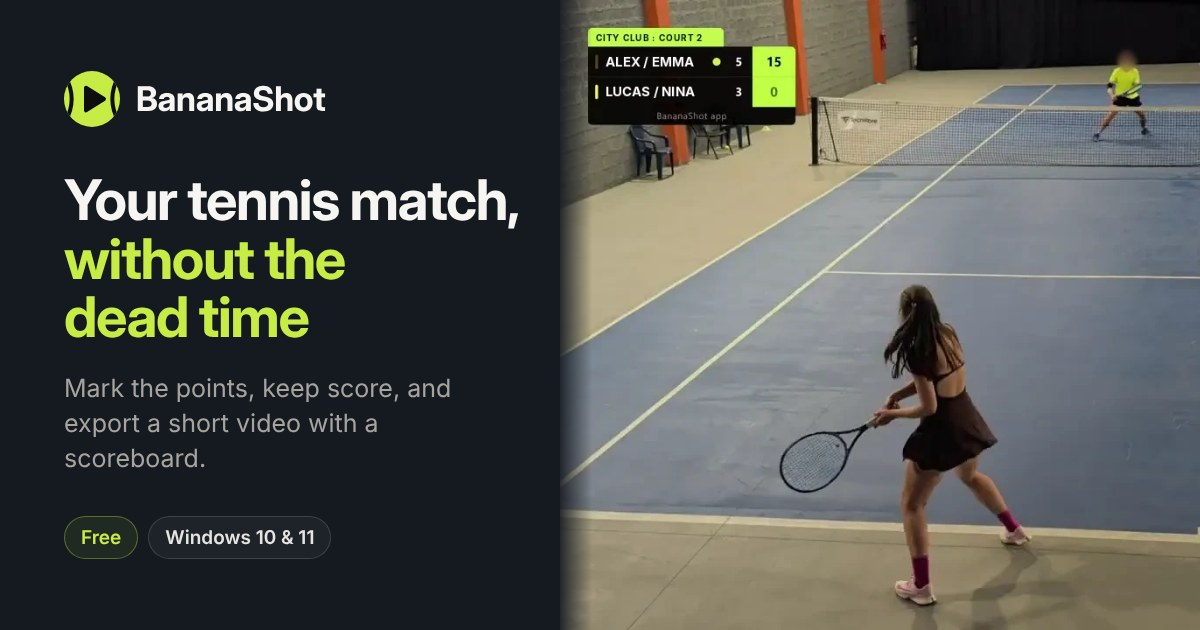
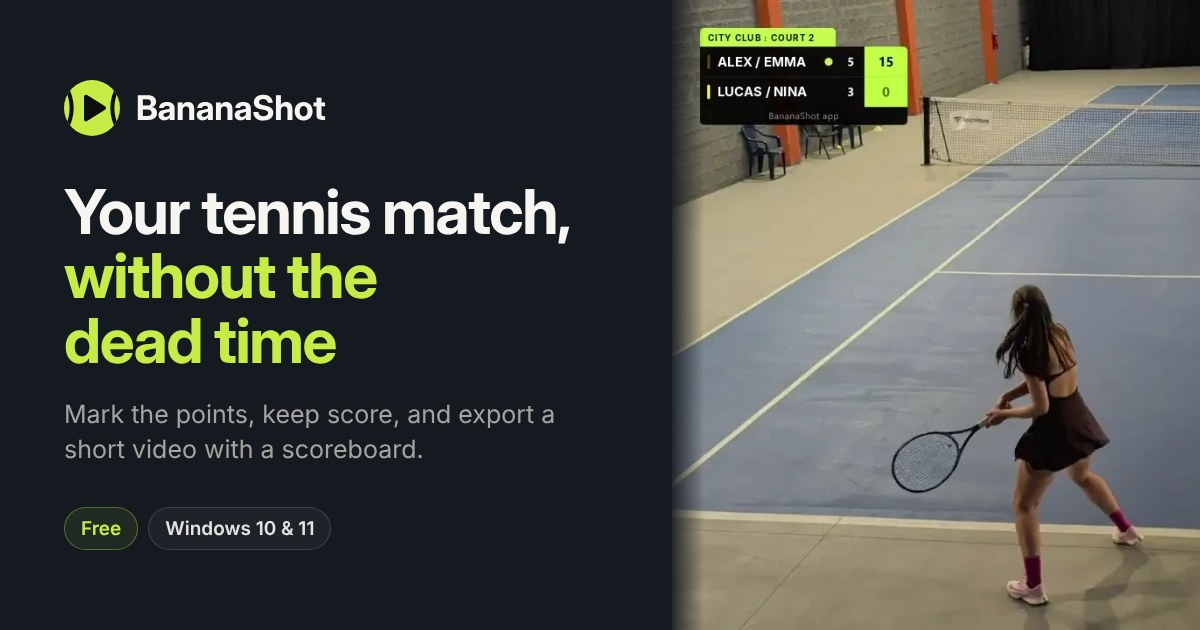
Site: crop the social preview frame instead of blurring faces
The blurred faces looked bad. The photo panel now shows only the left
part of the frame. There, the only player has her back to the camera,
so no face shows and no blur is necessary. The invented names on the
scoreboard stay.

Claude-Session: https://claude.ai/code/session_01JhfzXmLJitvfWefRHX6z1u

diff --git a/design/social-preview/og-image.html b/design/social-preview/og-image.html
@@ -5,18 +5,18 @@
   * { margin: 0; padding: 0; box-sizing: border-box; }
   html, body { width: 1200px; height: 630px; overflow: hidden; background: #151a21; }
   body { font-family: "Inter", sans-serif; color: #e6e4e0; position: relative; }
-  .frame { position: absolute; top: 0; left: 560px; width: 1120px; height: 630px; display: block; }
-  .fade { position: absolute; top: 0; left: 556px; width: 36px; height: 630px;
+  .frame { position: absolute; top: 0; left: 672px; width: 1120px; height: 630px; display: block; }
+  .fade { position: absolute; top: 0; left: 668px; width: 36px; height: 630px;
     background: linear-gradient(90deg, #151a21 0%, rgba(21,26,33,0) 100%); }
-  .text { position: absolute; left: 64px; top: 0; bottom: 0; width: 480px;
+  .text { position: absolute; left: 64px; top: 0; bottom: 0; width: 580px;
     display: flex; flex-direction: column; justify-content: center; }
   .brand { display: flex; align-items: center; gap: 16px; margin-bottom: 44px; }
   .brand img { width: 56px; height: 56px; }
   .brand span { font-family: "Inter Display"; font-weight: 700; font-size: 34px; color: #f6f5f2; letter-spacing: -0.3px; }
-  h1 { font-family: "Inter Display"; font-weight: 700; font-size: 56px; line-height: 1.05;
+  h1 { font-family: "Inter Display"; font-weight: 700; font-size: 62px; line-height: 1.04;
     letter-spacing: -1.4px; color: #f6f5f2; }
   h1 em { font-style: normal; color: #c8ec46; }
-  p { margin-top: 24px; font-size: 25px; line-height: 1.4; color: #a6a49f; width: 460px; }
+  p { margin-top: 24px; font-size: 25px; line-height: 1.4; color: #a6a49f; width: 540px; }
   .foot { margin-top: 40px; display: flex; gap: 10px; }
   .chip { font-size: 19px; font-weight: 600; padding: 9px 16px; border-radius: 999px;
     border: 1.5px solid rgba(200,236,70,0.35); color: #c8ec46; background: rgba(200,236,70,0.07); }

diff --git a/design/social-preview/anonymize-frame.py b/design/social-preview/anonymize-frame.py
@@ -1,8 +1,9 @@
 """Makes an anonymized copy of the doubles frame for the social preview image.
 
-- Blurs the faces of the three players that face the camera.
-- Replaces the player names and the place label on the scoreboard with
-  invented ones, in the same style.
+Replaces the player names and the place label on the scoreboard with
+invented ones, in the same style. The frame keeps the faces: the crop in
+og-image.html shows only the left part of the frame, where the only player
+has her back to the camera.
 
 Input: site/public/assets/frames/video-doubles.webp (1280 x 720).
 Output: design/social-preview/frame-anonymized.webp.
@@ -13,19 +14,12 @@ Needs Pillow and the Inter font (Inter-Bold.otf).
 from pathlib import Path
 from statistics import median
 
-from PIL import Image, ImageDraw, ImageFilter, ImageFont
+from PIL import Image, ImageDraw, ImageFont
 
 ROOT = Path(__file__).resolve().parents[2]
 SOURCE = ROOT / "site/public/assets/frames/video-doubles.webp"
 TARGET = ROOT / "design/social-preview/frame-anonymized.webp"
 FONT = "/usr/share/fonts/opentype/inter/Inter-Bold.otf"
-
-# Ellipses (left, top, right, bottom) around the faces, in frame pixels.
-FACES = [
-    (636, 55, 659, 81),   # far court, yellow shirt
-    (782, 16, 800, 37),   # far court, back
-    (944, 92, 976, 126),  # near the net, cap
-]
 
 PLACE = "CITY CLUB : COURT 2"
 TEAM_1 = "ALEX / EMMA"
@@ -34,16 +28,6 @@ TEAM_2 = "LUCAS / NINA"
 SCOREBOARD_BLACK = (12, 10, 8)
 HEADER_TEXT = (6, 28, 4)
 NAME_TEXT = (255, 255, 255)
-
-
-def blur_faces(image: Image.Image) -> None:
-    blurred = image.filter(ImageFilter.GaussianBlur(6))
-    mask = Image.new("L", image.size, 0)
-    draw = ImageDraw.Draw(mask)
-    for box in FACES:
-        draw.ellipse(box, fill=255)
-    mask = mask.filter(ImageFilter.GaussianBlur(2))
-    image.paste(blurred, (0, 0), mask)
 
 
 def tab_color(image: Image.Image) -> tuple[int, int, int]:
@@ -76,7 +60,6 @@ def replace_names(image: Image.Image) -> None:
 
 def main() -> None:
     image = Image.open(SOURCE).convert("RGB")
-    blur_faces(image)
     replace_names(image)
     image.save(TARGET, quality=92, method=6)
     print(f"Wrote {TARGET.relative_to(ROOT)}")

diff --git a/design/social-preview/README.md b/design/social-preview/README.md
@@ -7,9 +7,12 @@ the site.
 - Size: 1200 × 630 (the Open Graph size).
 - The frame is `frame-anonymized.webp`: a real export of the app
   (`site/public/assets/frames/video-doubles.webp`) with no personal data.
-  `anonymize-frame.py` makes it. The script blurs the faces of the players
-  and writes invented names and an invented place on the scoreboard. The
-  frame on the home page does not change.
+  `anonymize-frame.py` makes it. The script writes invented names and an
+  invented place on the scoreboard. The frame on the home page does not
+  change.
+- The image shows only the left part of the frame. There, the only player
+  has her back to the camera, so no face shows. Do not move the frame to the
+  left in `og-image.html`: then the far players and their faces show.
 - The logo is `site/public/assets/logo.svg`.
 - The font is Inter. If Inter is not installed, the browser uses a different
   font, and the text can wrap differently.
@@ -22,9 +25,9 @@ Do this only when the source frame or the invented names change.
 python3 design/social-preview/anonymize-frame.py
 ```
 
-Then look at the frame: the faces must be blurred, and the text must stay
-inside the scoreboard cells. The face positions are in pixels in the script.
-A different source frame needs new positions.
+Then look at the frame: the text must stay inside the scoreboard cells. The
+text positions are in pixels in the script. A different source frame needs
+new positions.
 
 ## Render the image
 
